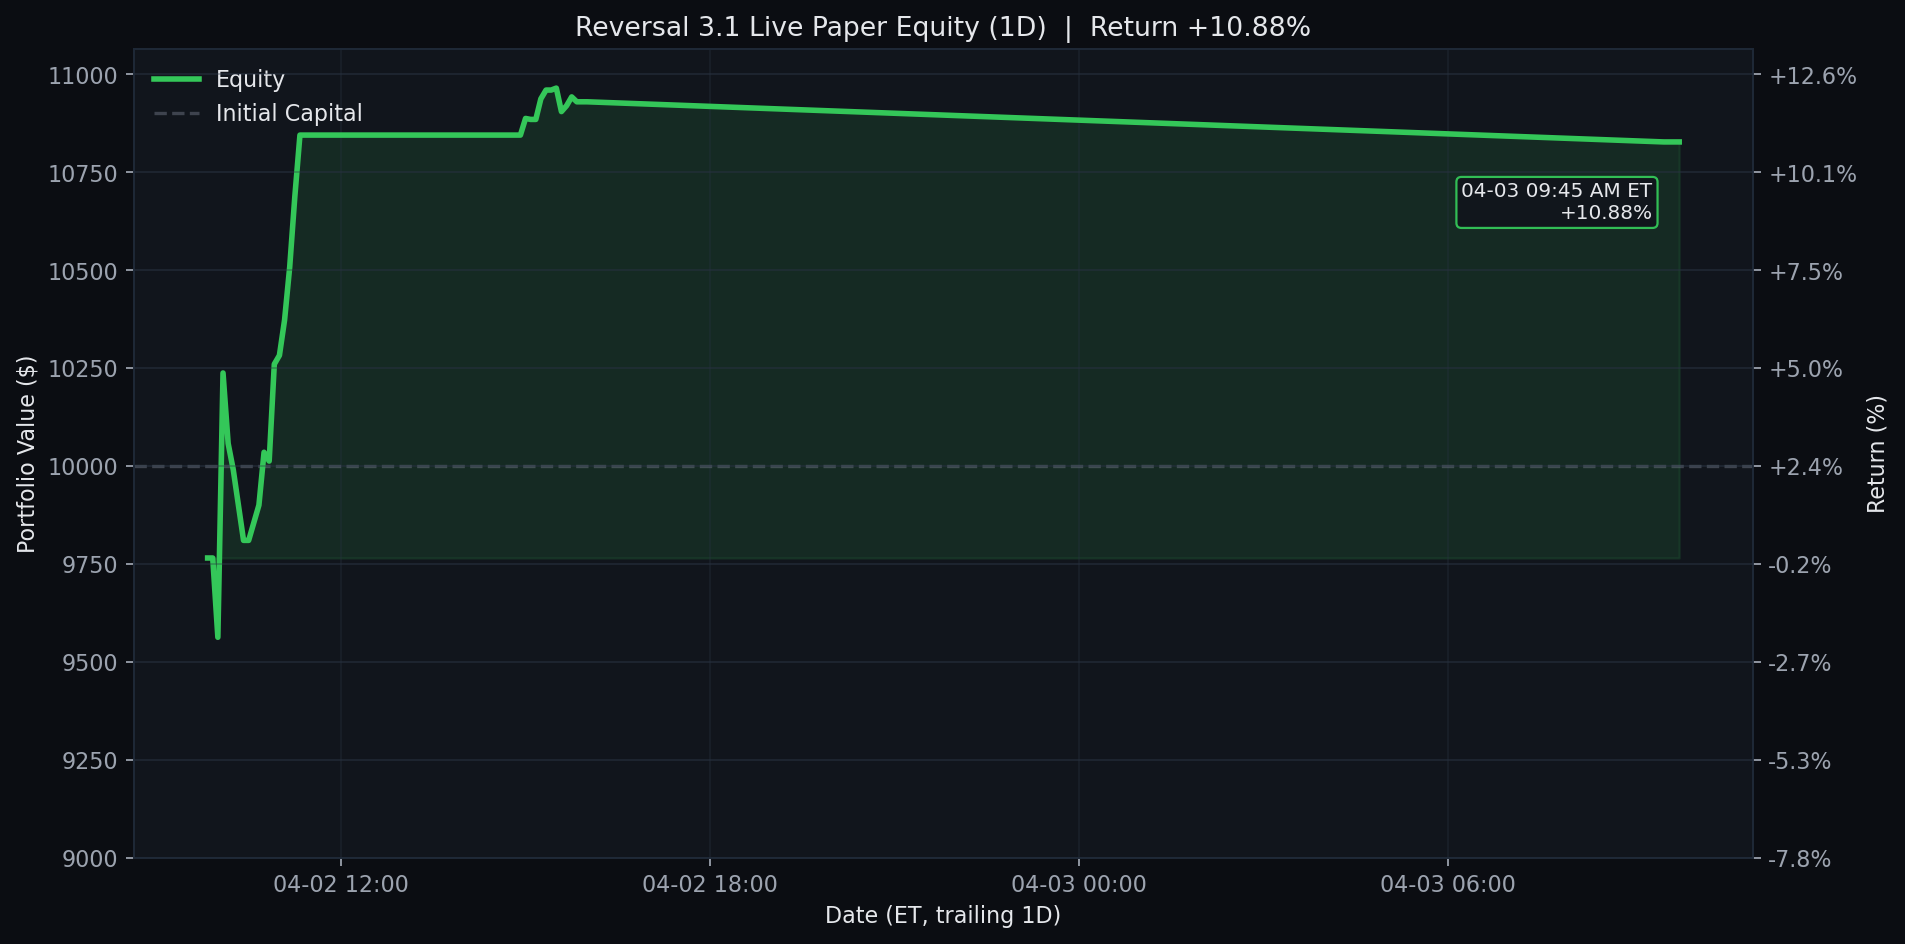
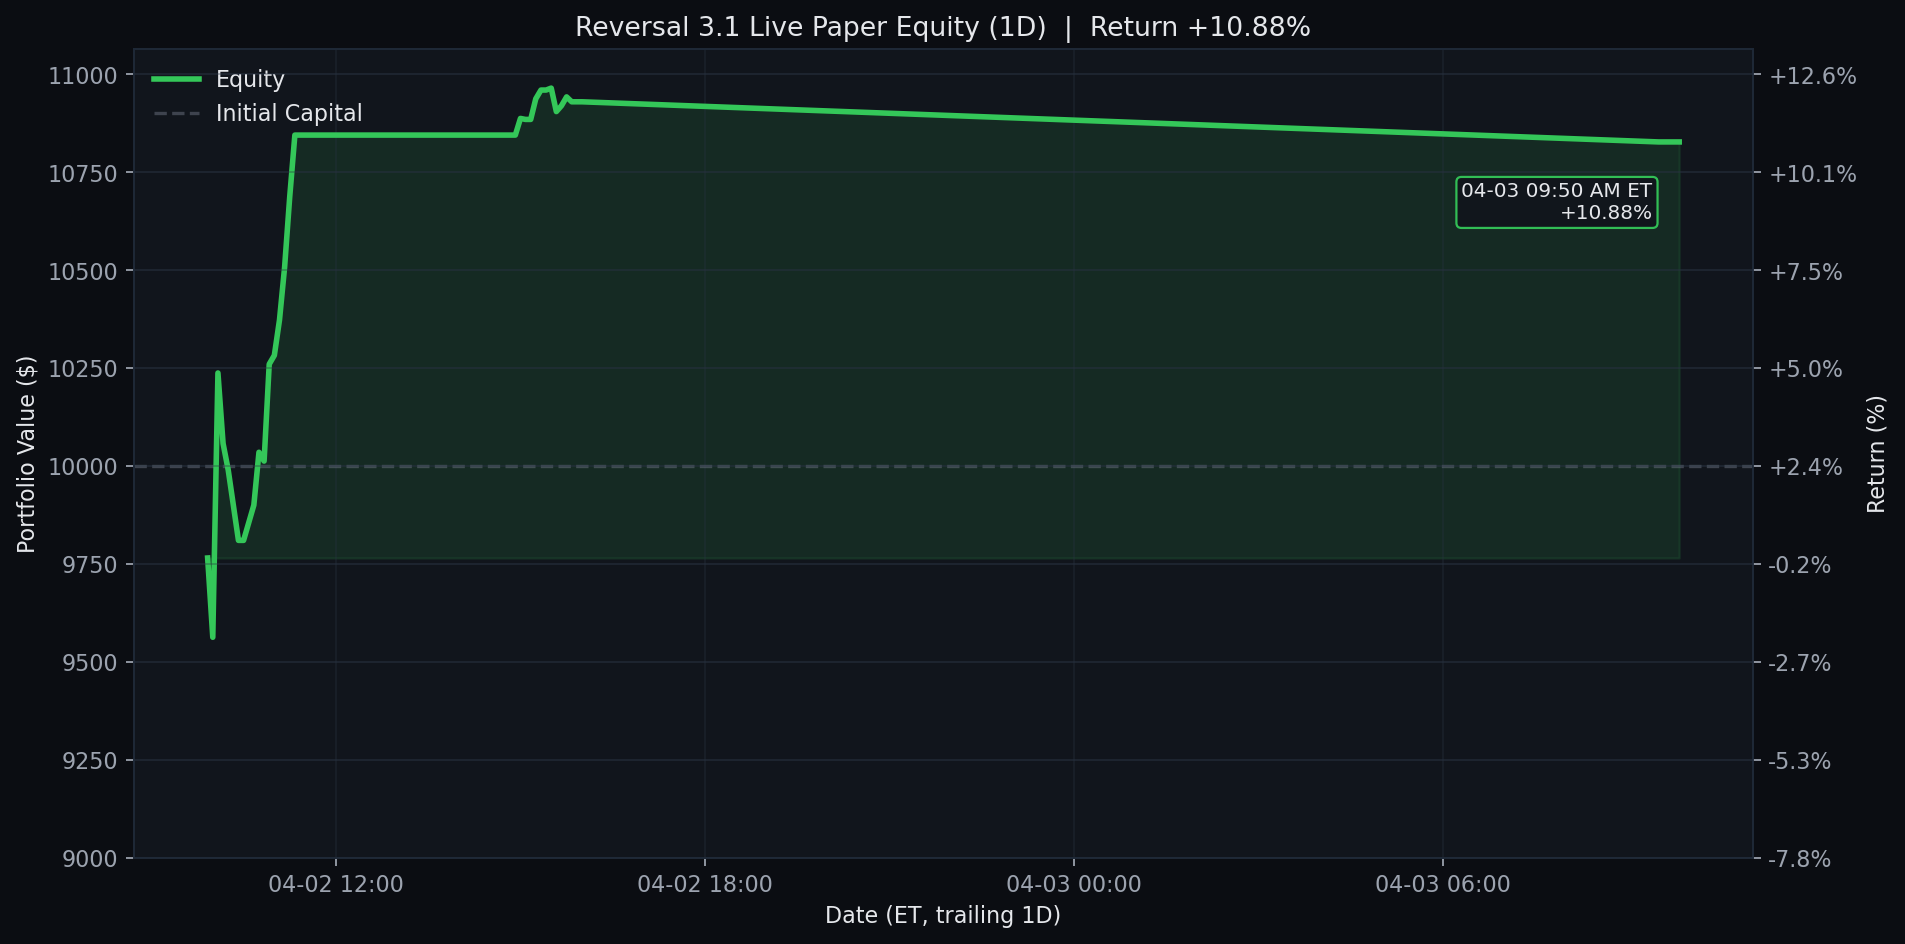
Update Reversal 3.1 live paper test 2026-04-03 09:50 ET

diff --git a/README.md b/README.md
@@ -3,10 +3,10 @@
 <!-- reversal-3.1-live:start -->
 ## Reversal 3.1 Live Paper Test
 
-- Last updated (ET): `2026-04-03 09:45:05 EDT`
+- Last updated (ET): `2026-04-03 09:50:05 EDT`
 - Equity: `$10,827.50` | Realized: `$845.00` | Unrealized: `$-17.50` | Open positions: `1`
 - Today closed trades: `0`
-- Current slot: `manual_refresh`
+- Current slot: `manage_1000`
 - Universe: `qqq_plus_leverage_etfs`
 - Chart windows: `1D / 1W / 1M` (default open panel: `1W`)
 

diff --git a/results/reversal_3_1_live/README.md b/results/reversal_3_1_live/README.md
@@ -1,7 +1,7 @@
 # Reversal 3.1 Live Paper Test
 
-Last updated (ET): `2026-04-03 09:45:05 EDT`
-Last processed slot: `manual_refresh`
+Last updated (ET): `2026-04-03 09:50:05 EDT`
+Last processed slot: `manage_1000`
 
 ## Active Configuration
 
